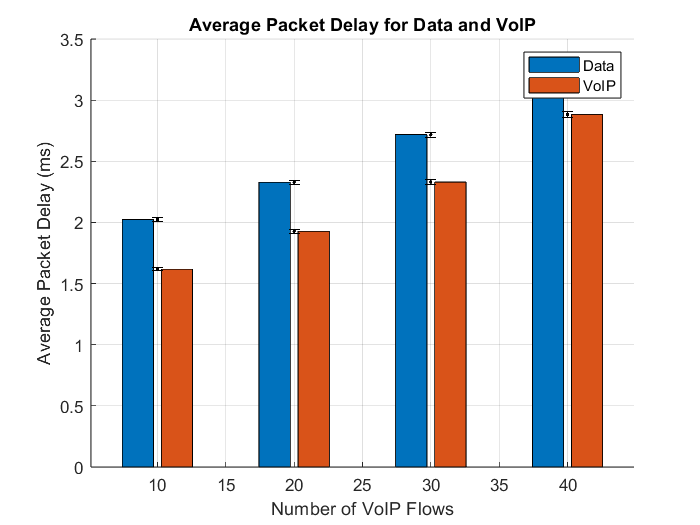
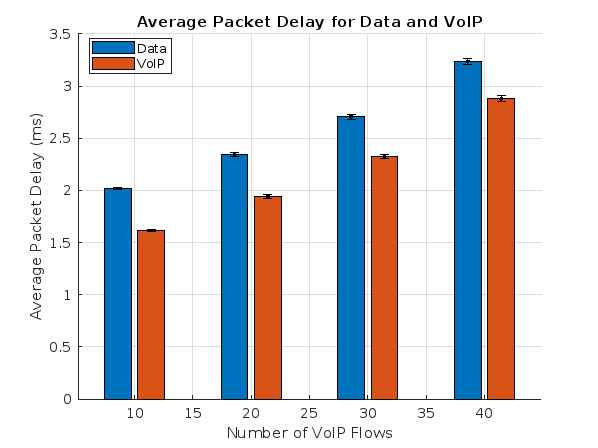
a morte do poeta

Changed region(s): [[0.0301, 0.0312, 0.903, 1.0]]

diff --git a/Mini-Projecto_1/task3/ex3b.m b/Mini-Projecto_1/task3/ex3b.m
@@ -1,13 +1,13 @@
 % Parameters
-lambda = 1500;  % pps (packets/sec)
-C = 10;        % Link bandwidth (Mbps)
-f = 10000;     % Queue size (Bytes)
-P = 100000;    % Stop criterion (number of packets)
-nVoIPs = [10, 20, 30, 40];  % VoIP flows
-N = 20;        % Number of simulations
-alpha = 0.1;   % for 90% confidence interval
+lambda = 1500;  % packets per second for data
+C = 10;         % Link bandwidth in Mbps
+f = 10000;      % Queue size in Bytes
+P = 100000;     % Stopping criterion (number of packets)
+nVoIPs = [10, 20, 30, 40];  % Number of VoIP flows
+N = 20;         % Number of simulations
+alpha = 0.1;    % for 90% confidence interval
 
-% Results arrays
+% Results arrays for data and VoIP metrics
 PLdata_results = zeros(N, length(nVoIPs));
 PLVoIP_results = zeros(N, length(nVoIPs));
 APDdata_results = zeros(N, length(nVoIPs));
@@ -16,9 +16,9 @@ APDVoIP_results = zeros(N, length(nVoIPs));
 % Simulation loop
 for i = 1:length(nVoIPs)
     for j = 1:N
-        % Run Sim3 for each VoIP flow count
+        % Run Sim4 for each VoIP flow count
         [PLdata_results(j,i), PLVoIP_results(j,i), APDdata_results(j,i), APDVoIP_results(j,i)] = ...
-            Sim3(lambda, C, f, P, nVoIPs(i));
+            Sim4(lambda, C, f, P, nVoIPs(i));
     end
 end
 
@@ -28,7 +28,7 @@ mean_PLVoIP = mean(PLVoIP_results);
 mean_APDdata = mean(APDdata_results);
 mean_APDVoIP = mean(APDVoIP_results);
 
-% Standard error and 90% confidence interval (Z = 1.645)
+% Calculate 90% confidence intervals (Z = 1.645 for 90% confidence)
 Z = norminv(1 - alpha / 2);
 ci_PLdata = Z * std(PLdata_results) / sqrt(N);
 ci_PLVoIP = Z * std(PLVoIP_results) / sqrt(N);
@@ -38,29 +38,29 @@ ci_APDVoIP = Z * std(APDVoIP_results) / sqrt(N);
 % Plot Average Packet Delay for Data and VoIP with error bars
 figure;
 hold on; grid on;
-b = bar(nVoIPs, [mean_APDdata; mean_APDVoIP]', 'grouped');  % Plot bar chart
-% Get x-coordinates of each bar for accurate error bar placement
+b = bar(nVoIPs, [mean_APDdata; mean_APDVoIP]', 'grouped');
+% Get x-coordinates for error bars on each group
 xData = b(1).XEndPoints;  % Data bar positions
-errorbar(xData, mean_APDdata, ci_APDdata, 'k.', 'linestyle', 'none'); % Data errors centered
+errorbar(xData, mean_APDdata, ci_APDdata, 'k.', 'linestyle', 'none');
 xData = b(2).XEndPoints;  % VoIP bar positions
-errorbar(xData, mean_APDVoIP, ci_APDVoIP, 'k.', 'linestyle', 'none'); % VoIP errors centered
+errorbar(xData, mean_APDVoIP, ci_APDVoIP, 'k.', 'linestyle', 'none');
 xlabel('Number of VoIP Flows');
 ylabel('Average Packet Delay (ms)');
-title('Average Packet Delay for Data and VoIP');
+title('Average Packet Delay for Data and VoIP with VoIP Priority');
 legend('Data', 'VoIP');
 hold off;
 
 % Plot Packet Loss for Data and VoIP with error bars
 figure;
 hold on; grid on;
-b = bar(nVoIPs, [mean_PLdata; mean_PLVoIP]', 'grouped');  % Plot bar chart
-% Get x-coordinates of each bar for accurate error bar placement
+b = bar(nVoIPs, [mean_PLdata; mean_PLVoIP]', 'grouped');
+% Get x-coordinates for error bars on each group
 xData = b(1).XEndPoints;  % Data bar positions
-errorbar(xData, mean_PLdata, ci_PLdata, 'k.', 'linestyle', 'none'); % Data errors centered
+errorbar(xData, mean_PLdata, ci_PLdata, 'k.', 'linestyle', 'none');
 xData = b(2).XEndPoints;  % VoIP bar positions
-errorbar(xData, mean_PLVoIP, ci_PLVoIP, 'k.', 'linestyle', 'none'); % VoIP errors centered
+errorbar(xData, mean_PLVoIP, ci_PLVoIP, 'k.', 'linestyle', 'none');
 xlabel('Number of VoIP Flows');
 ylabel('Packet Loss (%)');
-title('Packet Loss for Data and VoIP');
+title('Packet Loss for Data and VoIP with VoIP Priority');
 legend('Data', 'VoIP');
 hold off;
